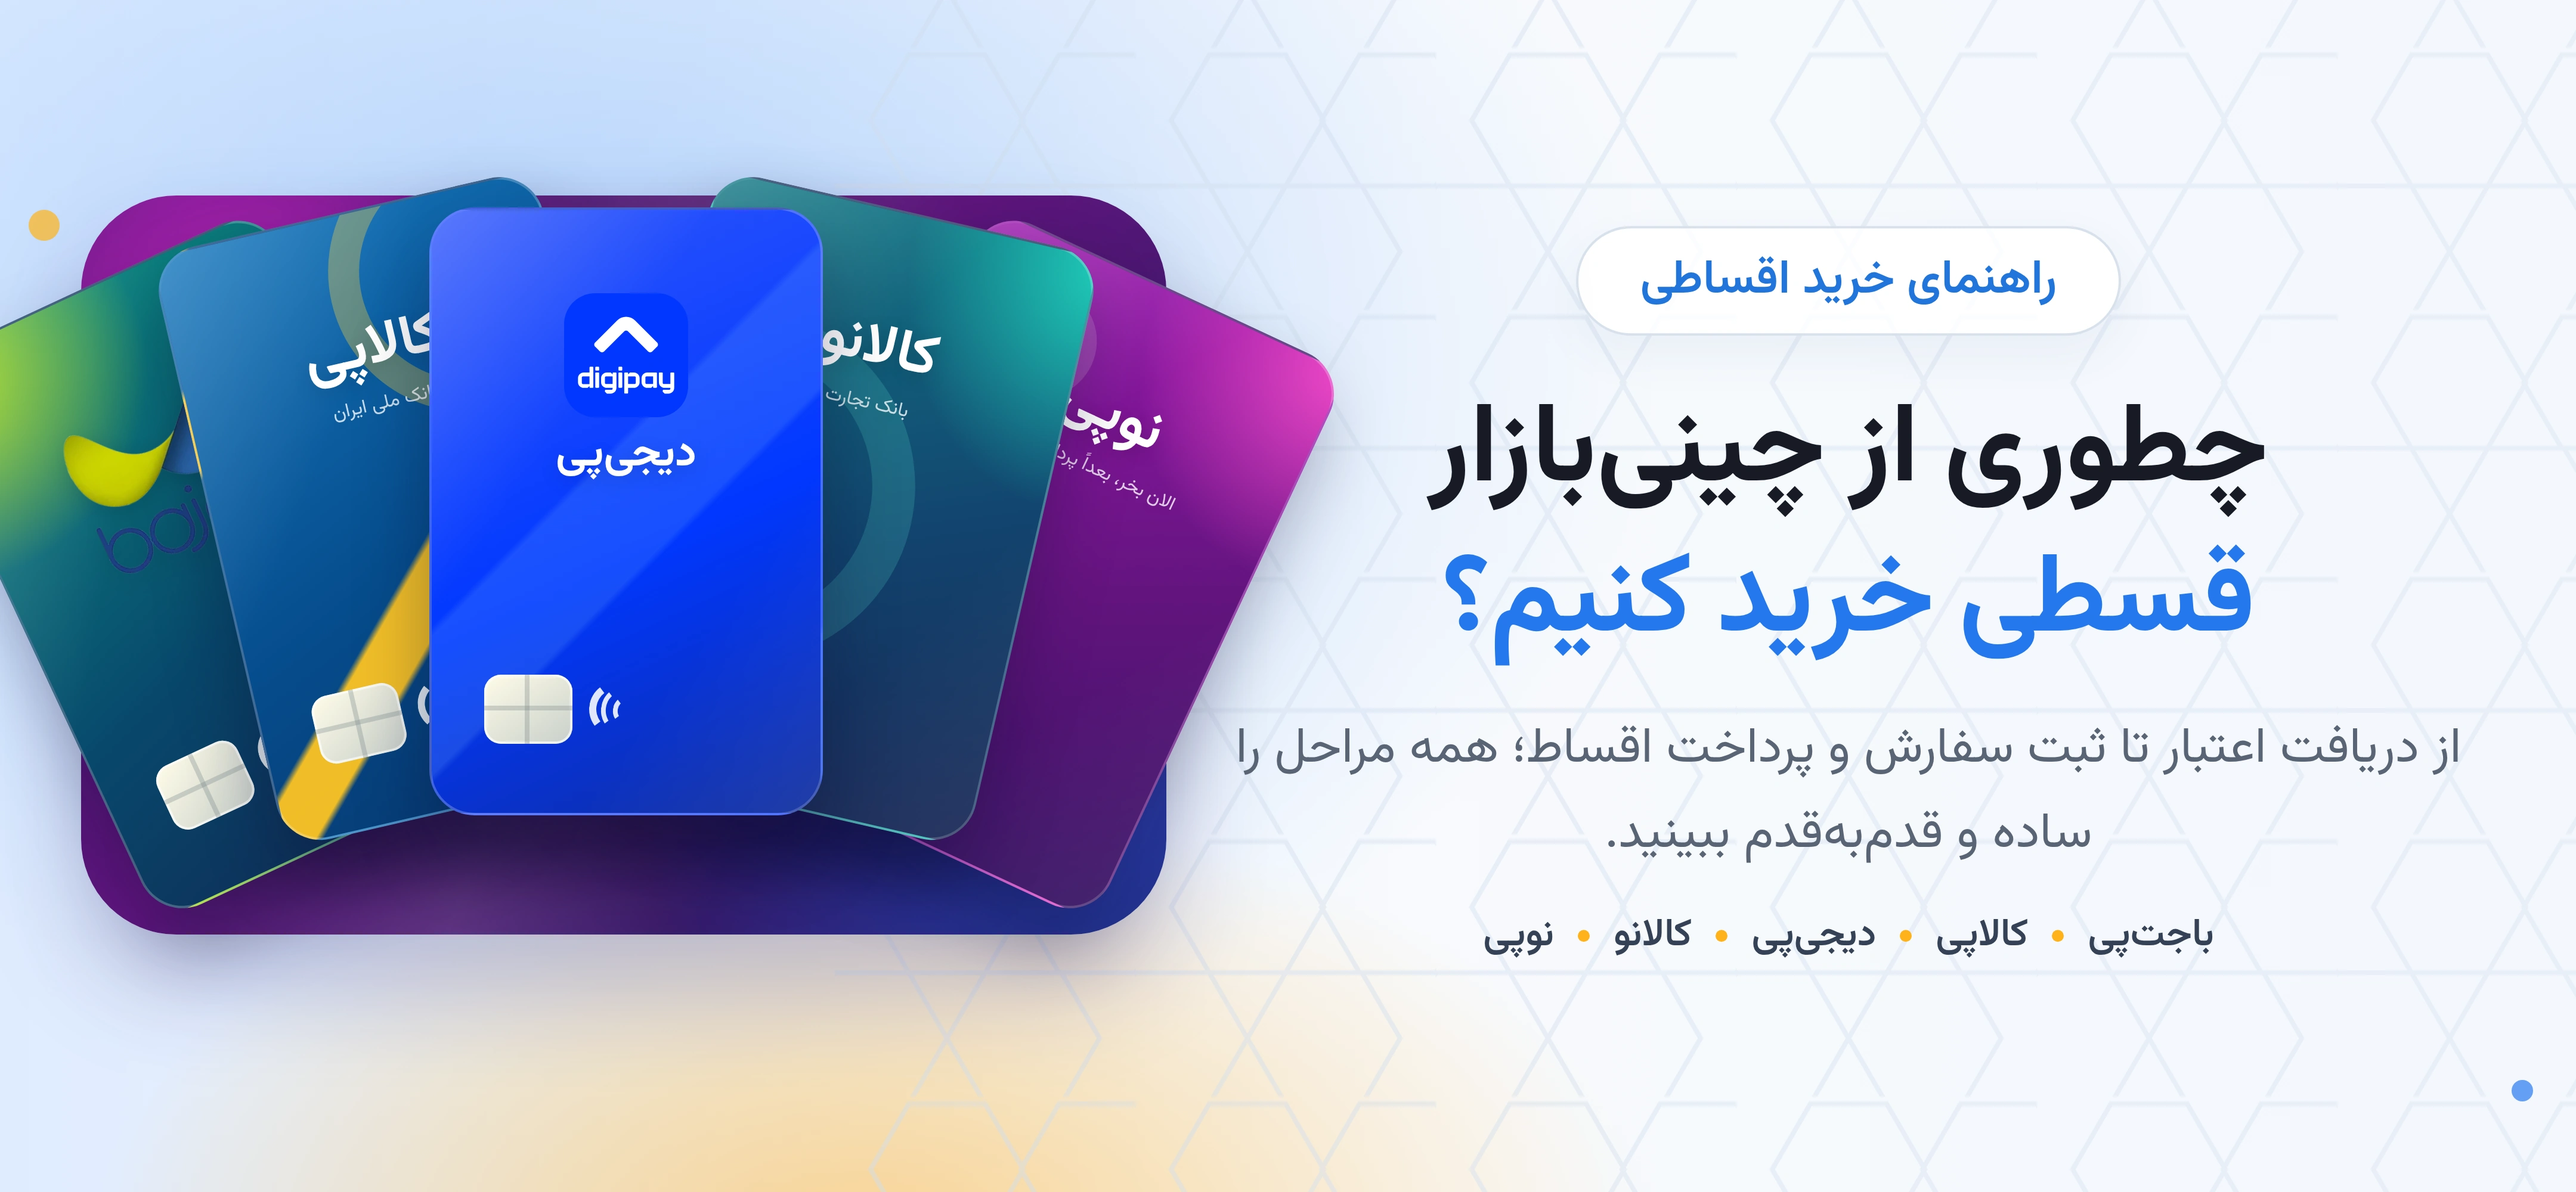
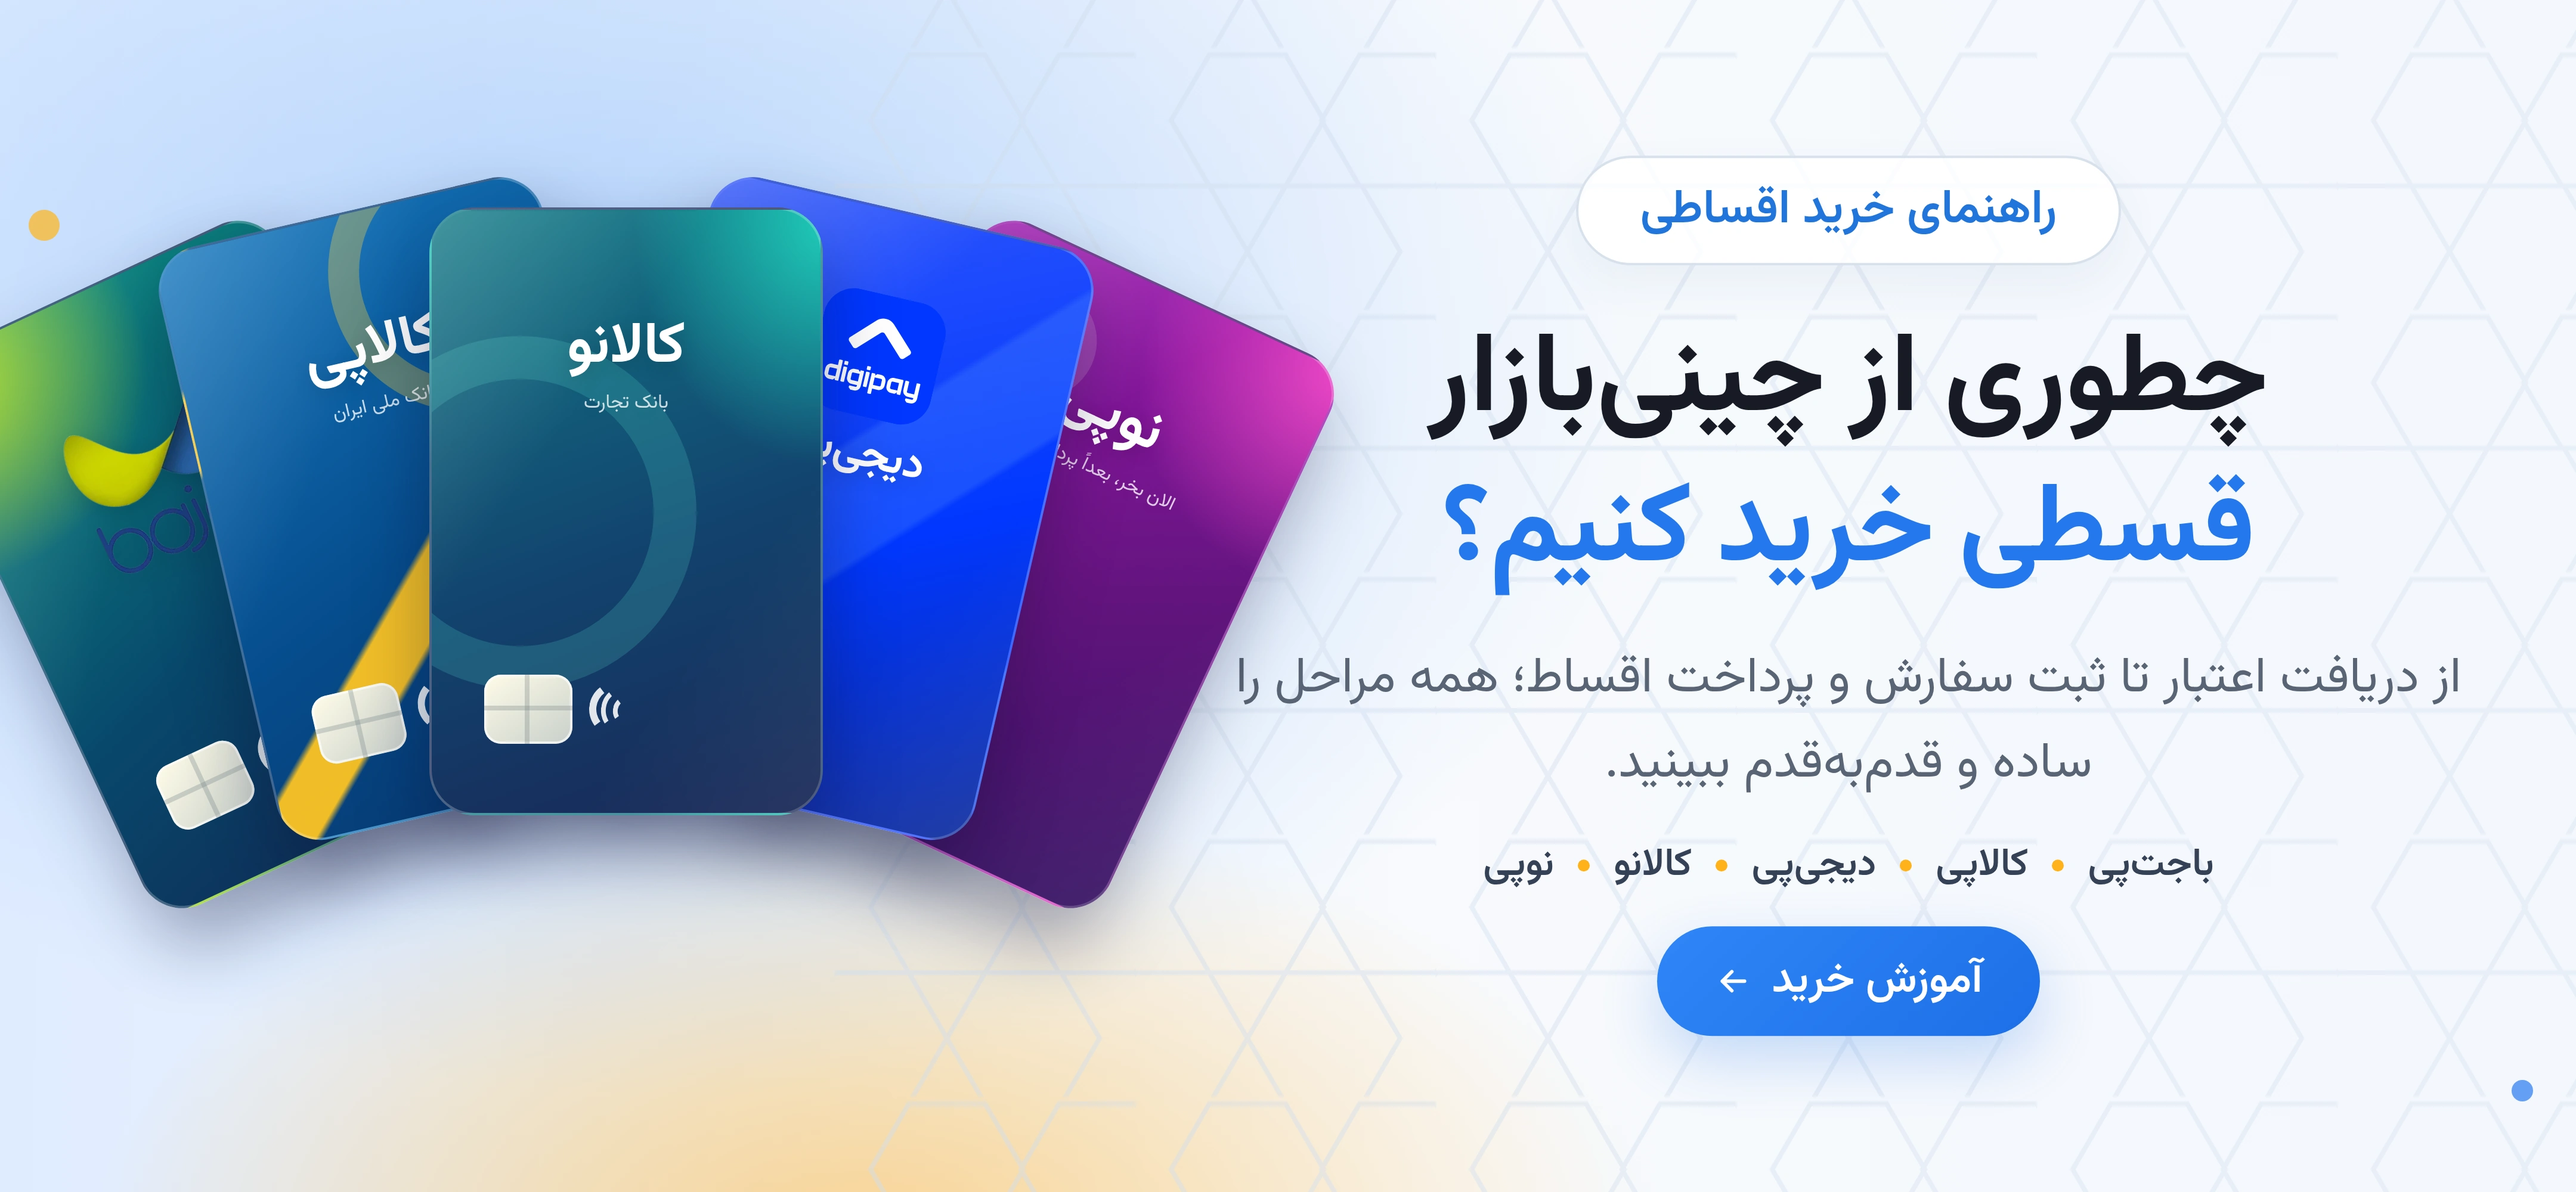
Refine card order and add purchase tutorial CTA

diff --git a/design/installment-banner/index.html b/design/installment-banner/index.html
@@ -230,7 +230,8 @@
       border-radius: 50%;
     }
     .digipay-card {
-      z-index: 5;
+      --x: 66px; --y: -4px; --r: 13deg;
+      z-index: 4;
       background:
         linear-gradient(135deg, transparent 42%, rgba(97, 158, 255, .23) 43% 57%, transparent 58%),
         linear-gradient(155deg, #3157fb, #0037ff 56%, #112e9d);
@@ -245,8 +246,7 @@
     }
     .digipay-card .brand img { width: 52px; height: 52px; border-radius: 13px; }
     .kalano-card {
-      --x: 66px; --y: -4px; --r: 13deg;
-      z-index: 4;
+      z-index: 5;
       background:
         radial-gradient(120px 150px at 102% 2%, rgba(35, 235, 202, .76), transparent 68%),
         linear-gradient(160deg, #137b87, #12436e 56%, #192756);
@@ -435,6 +435,26 @@
       border-radius: 50%;
       background: #ffb21b;
     }
+    .learn-button {
+      display: inline-flex;
+      align-items: center;
+      justify-content: center;
+      gap: 8px;
+      height: 42px;
+      margin-top: 13px;
+      padding: 0 24px;
+      border-radius: 999px;
+      background: linear-gradient(135deg, #2f86f7, #1d6fe7);
+      color: #fff;
+      font-size: 16px;
+      font-weight: 600;
+      box-shadow: 0 10px 24px rgba(36, 119, 234, .24);
+      text-decoration: none;
+    }
+    .learn-button svg {
+      width: 16px;
+      height: 16px;
+    }
     .edge-dot {
       position: absolute;
       border-radius: 50%;
@@ -489,6 +509,10 @@
         margin-top: 12px;
         font-size: 16px;
       }
+      .learn-button {
+        height: 46px;
+        font-size: 18px;
+      }
       .edge-dot.one { left: 12px; top: 88px; }
       .edge-dot.two { right: 18px; bottom: 38px; }
     }
@@ -503,7 +527,6 @@
 
     <div class="safe-area">
       <section class="visual" aria-hidden="true">
-        <div class="fan-backdrop"></div>
         <div class="card-fan">
           <div class="credit-card bajet-card">
             <div class="brand"><img src="logos/bajet-pay.webp" alt=""></div>
@@ -538,6 +561,12 @@
         <div class="provider-line">
           <span>باجتپی</span><i></i><span>کالاپی</span><i></i><span>دیجیپی</span><i></i><span>کالانو</span><i></i><span>نوپی</span>
         </div>
+        <a class="learn-button" href="#">
+          <span>آموزش خرید</span>
+          <svg viewBox="0 0 24 24" fill="none" aria-hidden="true">
+            <path d="M19 12H5m6-6-6 6 6 6" stroke="currentColor" stroke-width="2.2" stroke-linecap="round" stroke-linejoin="round"/>
+          </svg>
+        </a>
       </section>
     </div>
   </main>
